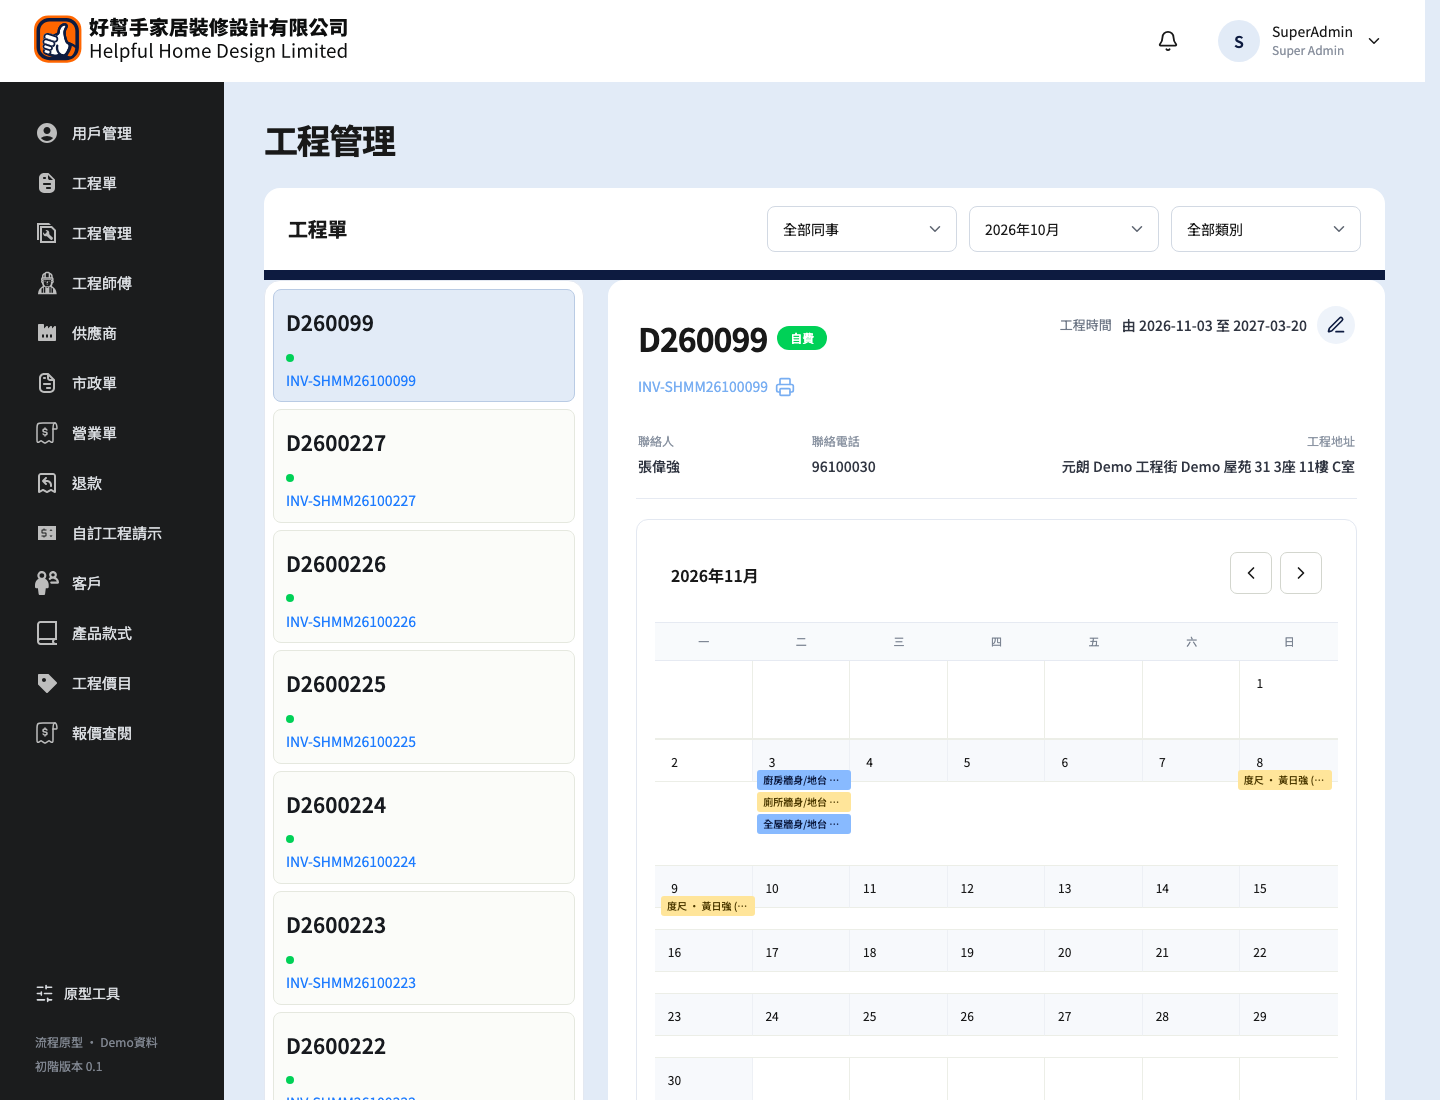
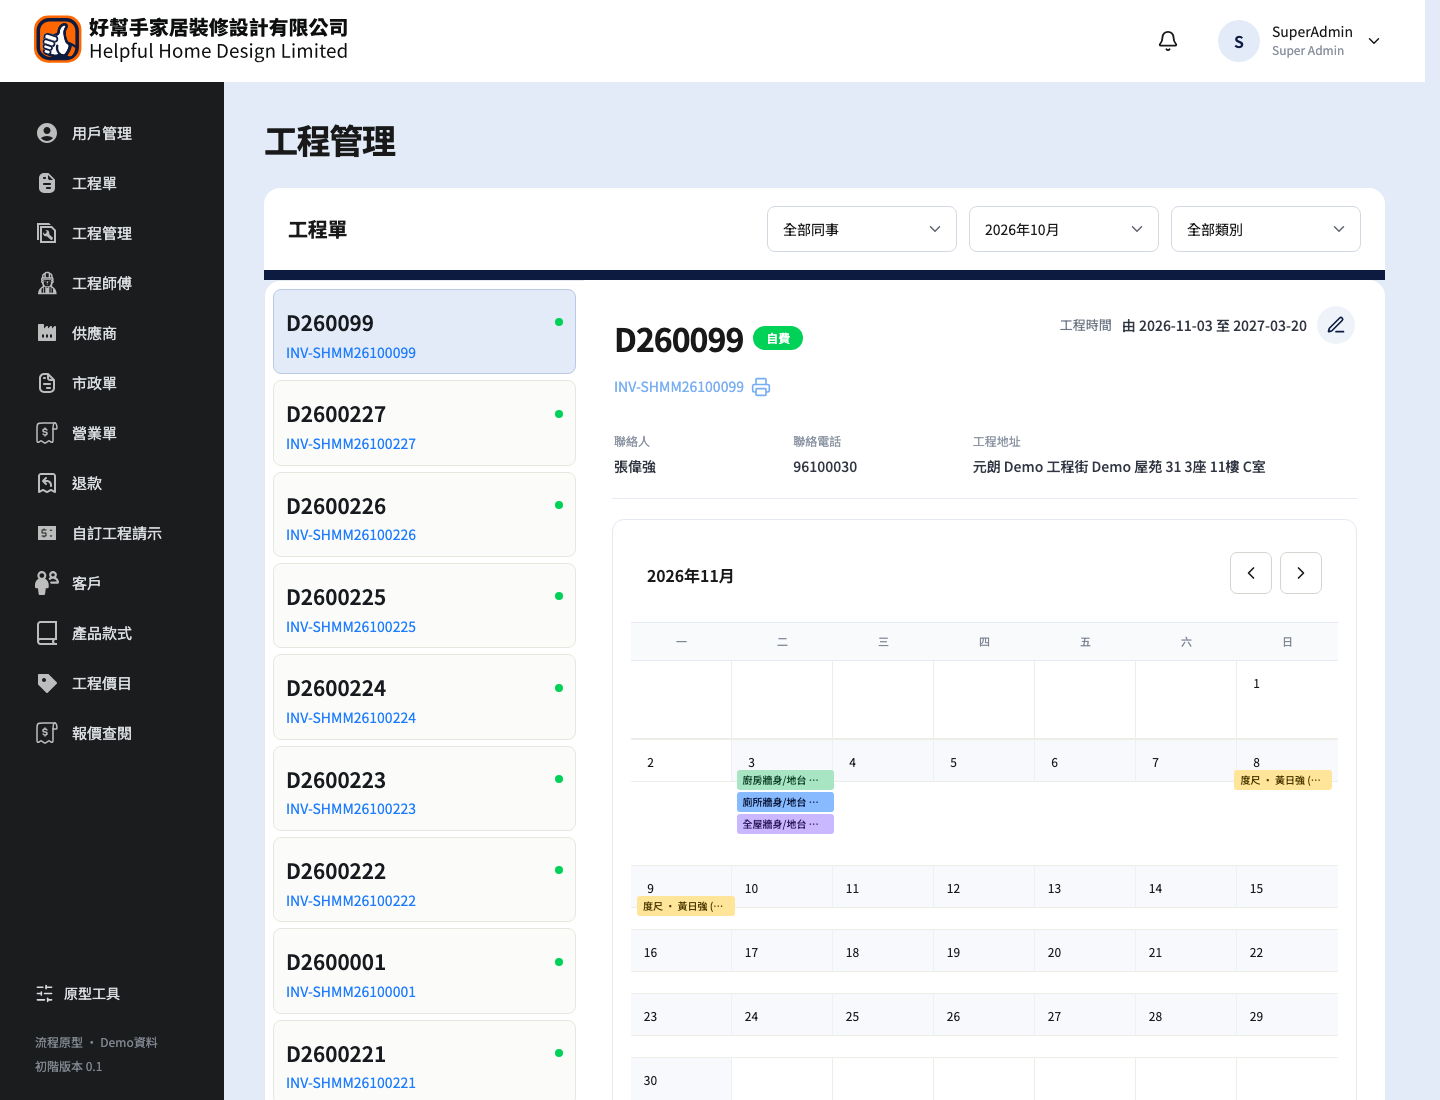
fix(engineering): compact rail cards and remove middle gap

diff --git a/src/styles.css b/src/styles.css
@@ -9063,3 +9063,63 @@ textarea::placeholder {
   width: 20px;
   height: 20px;
 }
+
+/* Rail card: dots on the number line, compact height */
+.order-rail-row {
+  padding: 10px 12px;
+  margin-bottom: 6px;
+}
+.order-rail-row > .order-rail-row-top {
+  display: flex;
+  align-items: center;
+  justify-content: space-between;
+  gap: 8px;
+}
+.order-rail-row > .order-rail-row-top > .order-rail-dots {
+  display: inline-flex;
+  align-items: center;
+  gap: 4px;
+  margin-top: 0;
+}
+.order-rail-row > .order-rail-row-top .order-rail-dot {
+  display: inline-block;
+  margin-top: 0;
+}
+.order-rail-row small {
+  display: block;
+  margin-top: 2px;
+}
+
+/* Rail and detail are one continuous surface; no middle gap.
+   The rail no longer owns an inner scrollbar. */
+.orders-workspace {
+  gap: 0;
+}
+.order-rail {
+  max-height: none;
+  overflow: visible;
+  border-radius: 16px 0 0 16px;
+  border-right: 0;
+}
+.order-rail-list {
+  overflow: visible;
+}
+.workorder-main {
+  border-radius: 0 16px 16px 0;
+}
+.wo-customer-address {
+  text-align: left;
+}
+
+@media (max-width: 900px) {
+  .order-rail {
+    border-radius: 16px;
+    border-right: 1px solid var(--line);
+  }
+  .workorder-main {
+    border-radius: 16px;
+  }
+  .orders-workspace {
+    gap: 16px;
+  }
+}
